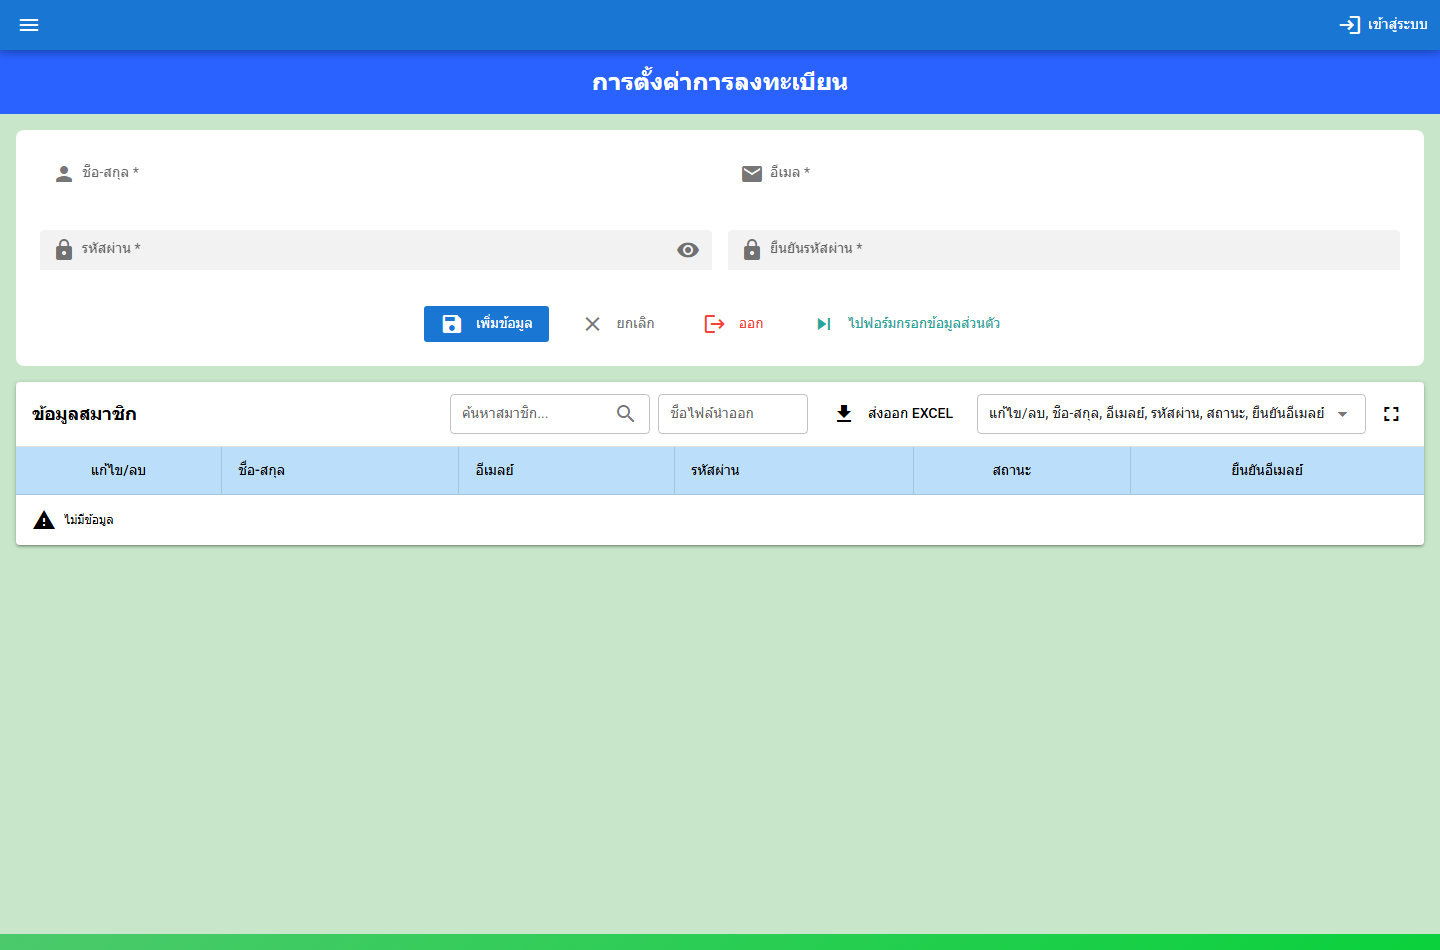
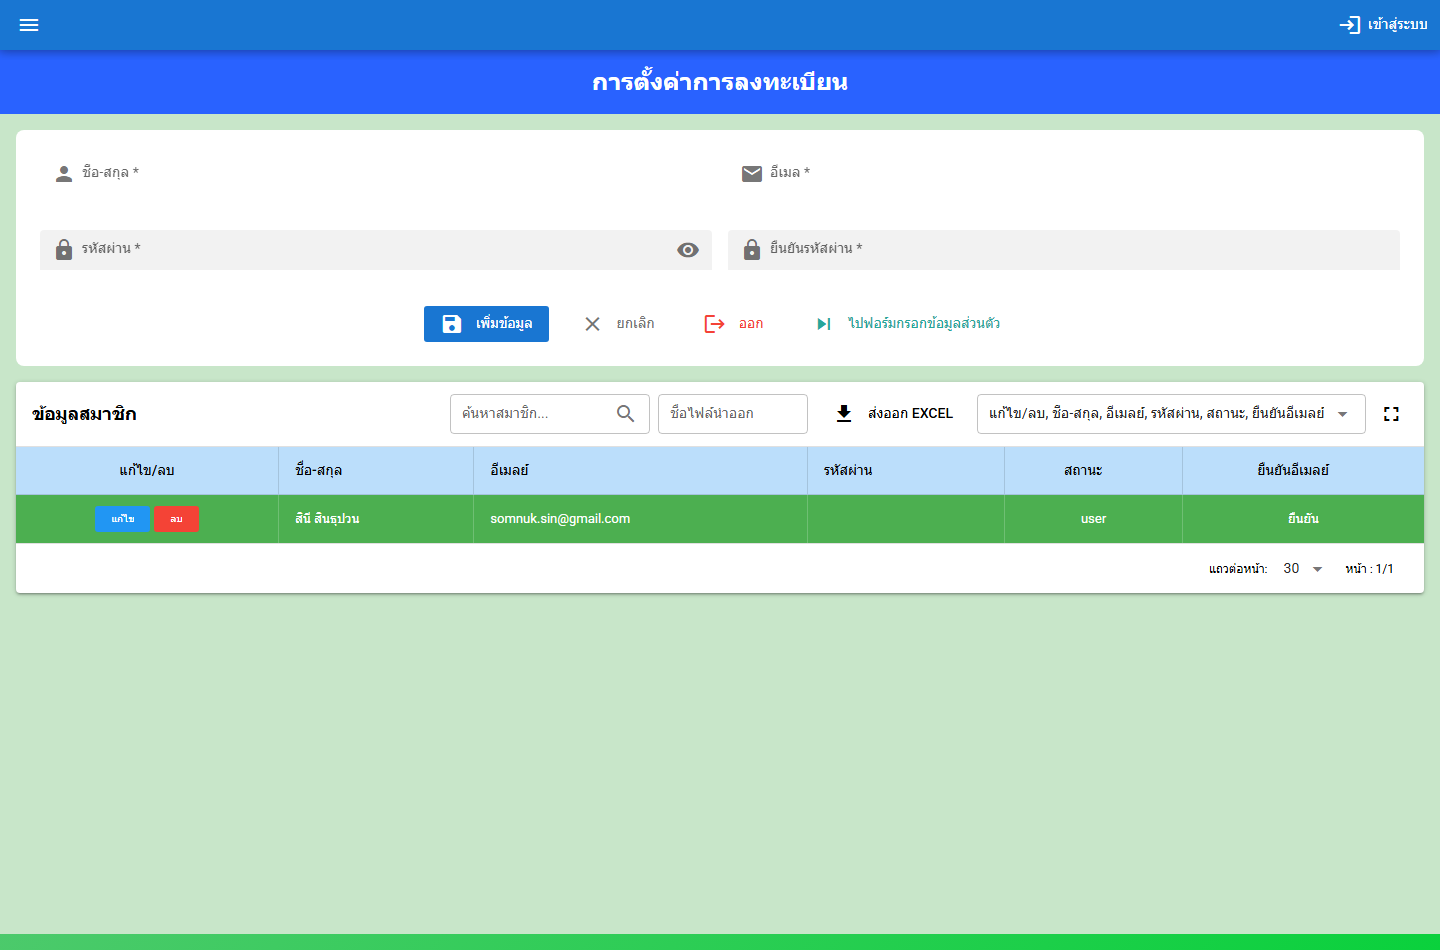
fix: standardize table action buttons and header styles across user forms

Changed region(s): [[0.0, 0.4884, 1.0, 0.6411]]

diff --git a/src/pages/forms/FormComponent.vue b/src/pages/forms/FormComponent.vue
@@ -151,7 +151,7 @@
                     <q-table title="ข้อมูลส่วนตัว" :rows="safeIndividuals" :columns="columns" row-key="individual_id"
                       :filter="filter" :loading="loading" :visible-columns="visibleColumns" separator="cell"
                       selection="multiple" v-model:selected="selected" class="my-custom-table shadow-1 border-radius-8"
-                      table-header-class="bg-blue-2 text-black">
+                      table-header-class="bg-blue-3 text-black">
                       <template #top-right="props">
                         <div class="row q-col-gutter-xs items-center">
                           <q-input borderless dense debounce="300" v-model="filter" placeholder="ค้นหา..."><template
@@ -168,10 +168,10 @@
                       </template>
 
                       <template #body-cell-actions="props">
-                        <q-td :props="props" class="q-gutter-x-xs">
-                          <q-btn flat round color="white" icon="edit" size="sm"
+                        <q-td :props="props" class="text-center">
+                          <q-btn size="sm" color="blue" label="แก้ไข" icon="edit" class="q-mr-xs"
                             @click="editUser(props.row.individual_id)" />
-                          <q-btn flat round color="red-2" icon="delete" size="sm"
+                          <q-btn size="sm" color="red" label="ลบ" icon="delete"
                             @click="deleteUser(props.row.individual_id, props.row.full_name)" />
                         </q-td>
                       </template>
@@ -721,23 +721,33 @@ export default {
       if (this.selected.length === 0) return;
 
       const ok = await this.confirmDialogAsync(
-        `คุณต้องการลบข้อมูลที่เลือกจำนวน ${this.selected.length} รายการ หรือไม่?`
+        `คุณต้องการลบข้อมูลที่เลือกทั้งหมด ${this.selected.length} รายการหรือไม่?`
       );
 
       if (!ok) return;
 
+      this.$q.loading.show({ message: "กำลังลบข้อมูลที่เลือก...", spinnerColor: "red" });
+      let successCount = 0;
+      let failCount = 0;
       try {
-        const individualIds = this.selected.map((item) => item.individual_id);
-        await axios.post(`${this.apiUrl}/individuals/delete-selected`, {
-          individual_ids: individualIds,
+        for (const item of this.selected) {
+          try {
+            await axios.delete(`${this.apiUrl}/individuals/${item.individual_id}`);
+            successCount++;
+          } catch (err) {
+            console.error(`Failed to delete ID ${item.individual_id}:`, err);
+            failCount++;
+          }
+        }
+        this.$q.notify({
+          color: successCount > 0 ? "positive" : "negative",
+          message: `ลบสำเร็จ ${successCount} รายการ${failCount > 0 ? `, ล้มเหลว ${failCount} รายการ` : ""}`,
+          icon: successCount > 0 ? "check" : "error",
         });
-
-        this.notifySuccess(`ลบข้อมูลสำเร็จ ${this.selected.length} รายการ`);
         this.selected = [];
         await this.getUpdate(this.individual.member_id);
-      } catch (e) {
-        console.error(e);
-        this.notifyError("ลบข้อมูลไม่สำเร็จ");
+      } finally {
+        this.$q.loading.hide();
       }
     },
 

diff --git a/src/pages/forms/FormRegistration.vue b/src/pages/forms/FormRegistration.vue
@@ -90,9 +90,9 @@
             <template v-slot:body="props">
               <q-tr :props="props" class="table-row-green">
                 <q-td key="actions" :props="props" class="text-center">
-                  <q-btn size="sm" color="blue" label="แก้ไข" class="q-mr-xs" @click="editUser(props.row.member_id)"
+                  <q-btn size="sm" color="blue" label="แก้ไข" icon="edit" class="q-mr-xs" @click="editUser(props.row.member_id)"
                     unelevated />
-                  <q-btn size="sm" color="red" label="ลบ" @click="deleteUser(props.row.member_id, props.row.full_name)"
+                  <q-btn size="sm" color="red" label="ลบ" icon="delete" @click="deleteUser(props.row.member_id, props.row.full_name)"
                     unelevated />
                 </q-td>
                 <q-td v-for="col in props.cols.filter(c => c.name !== 'actions')" :key="col.name" :props="props">

diff --git a/src/pages/forms/FormSelfAssessment.vue b/src/pages/forms/FormSelfAssessment.vue
@@ -310,9 +310,9 @@
                               </template>
 
                               <template v-slot:body-cell-actions="props">
-                                <q-td :props="props">
-                                  <q-btn icon="mode_edit" label="แก้ไข" @click="editItem(props.row)" />
-                                  <q-btn icon="delete" label="ลบ" @click="deleteItem(props.row)" />
+                                <q-td :props="props" class="text-center">
+                                  <q-btn size="sm" color="blue" icon="mode_edit" label="แก้ไข" class="q-mr-xs" @click="editItem(props.row)" />
+                                  <q-btn size="sm" color="red" icon="delete" label="ลบ" @click="deleteItem(props.row)" />
                                 </q-td>
                               </template>
                             </q-table>
